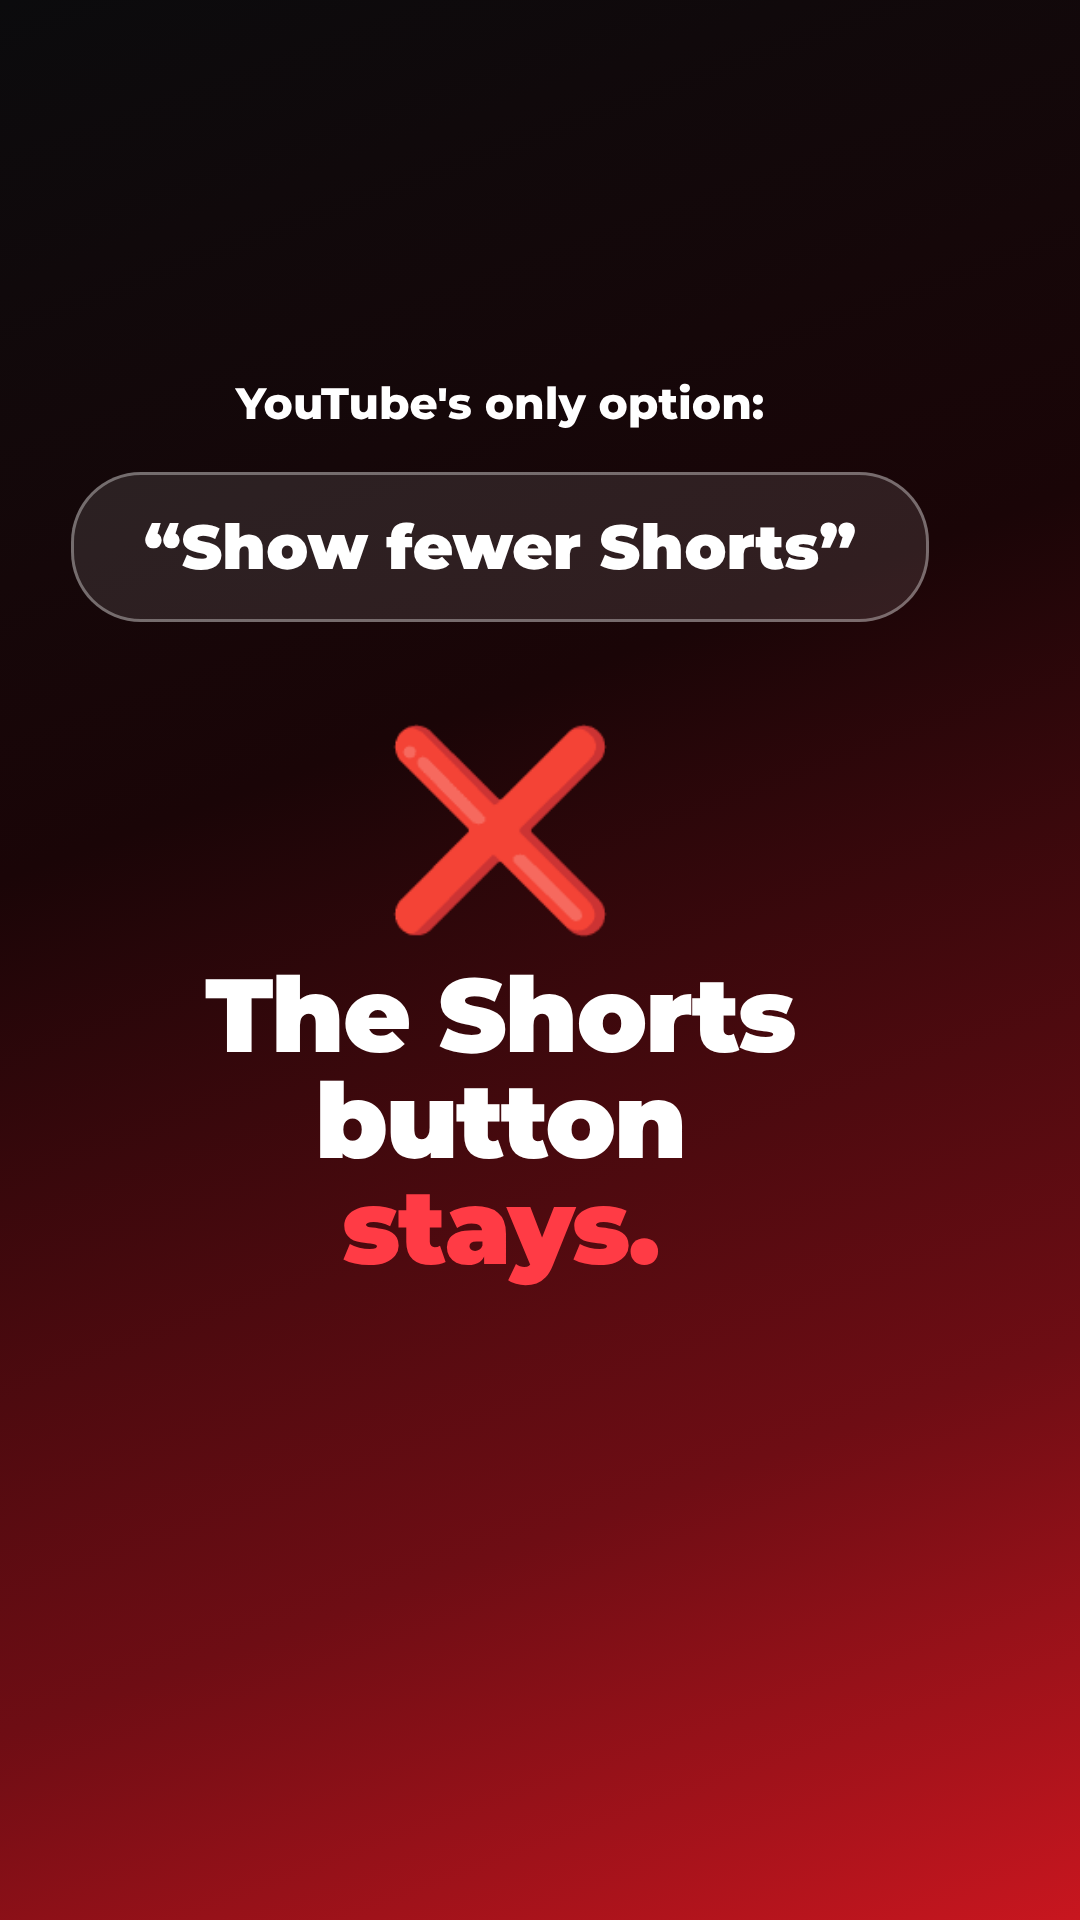
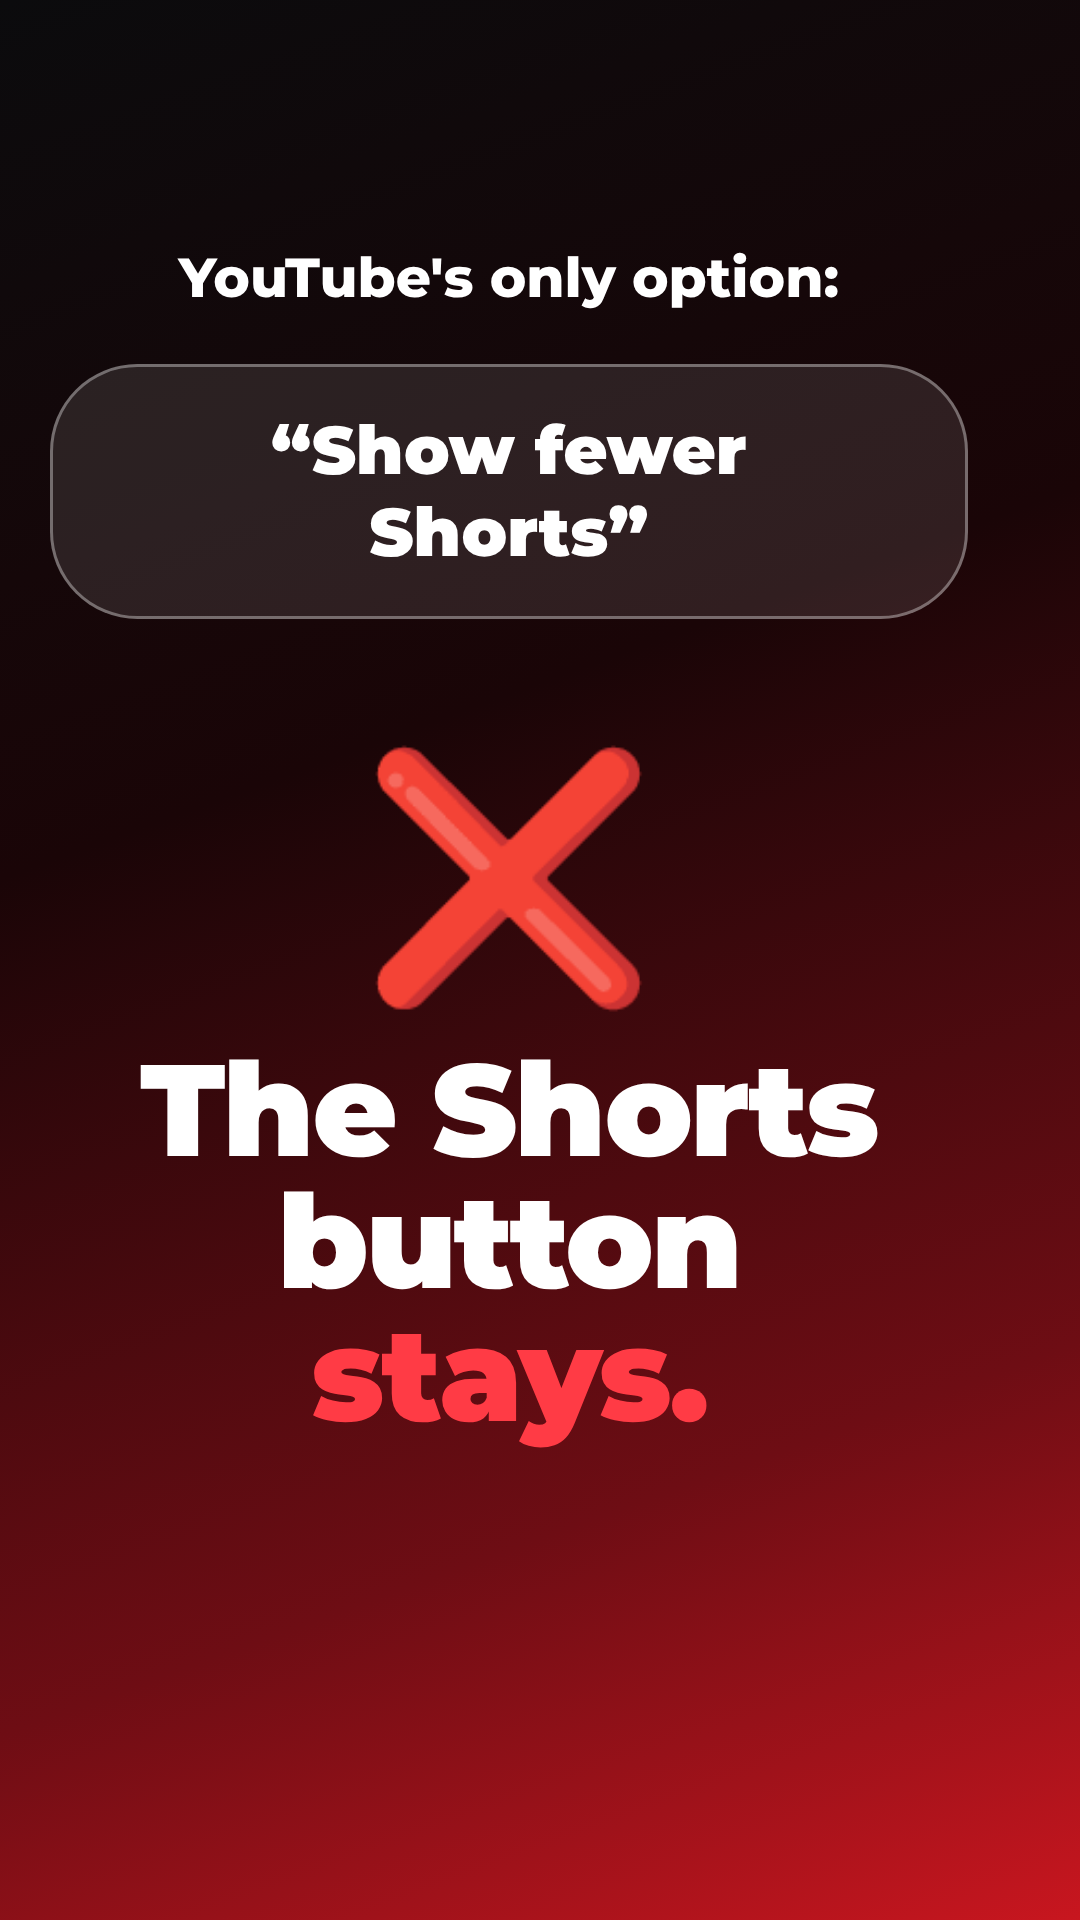
Marketing carousel: bigger content in the TikTok full-screen format
Claude-Session: https://claude.ai/code/session_01YU23RwEqoDKe6tHmapC4V3

Changed region(s): [[0.1222, 0.375, 0.825, 0.7812], [0.0306, 0.1875, 0.9167, 0.3438], [0.1528, 0.125, 0.7944, 0.1562]]

diff --git a/marketing/carousel-android/slides.html b/marketing/carousel-android/slides.html
@@ -5,7 +5,7 @@
 @font-face{font-family:M;font-weight:900;src:url(file://FONTS/montserrat-latin-900-normal.woff2)}
 *{box-sizing:border-box;margin:0;padding:0}
 body{background:#000;font-family:M,sans-serif;color:#fff}
-.s{width:1080px;height:1920px;position:relative;overflow:hidden;display:flex;flex-direction:column;align-items:center;padding:200px 150px 430px 70px;
+.s{zoom:1.25;width:864px;height:1536px;position:relative;overflow:hidden;display:flex;flex-direction:column;align-items:center;padding:150px 90px 330px 40px;
  background:linear-gradient(160deg,#0B0B0D 0%,#1a0507 38%,#6e0d14 75%,#C8161F 100%)}
 .pill{font-weight:800;font-size:34px;letter-spacing:4px;padding:14px 30px;border-radius:40px;background:rgba(255,255,255,.12);border:2px solid rgba(255,255,255,.25)}
 h1{font-weight:900;font-size:110px;line-height:1.02;text-align:center;letter-spacing:-2px}
@@ -19,11 +19,11 @@ h2{font-weight:900;font-size:86px;line-height:1.05;text-align:center;letter-spac
 .x{flex:none;width:58px;height:58px;border-radius:50%;background:#2b2b2f;display:flex;align-items:center;justify-content:center;font-size:34px;font-weight:900;color:#ff5a62}
 .ok{flex:none;width:58px;height:58px;border-radius:50%;background:#fff;display:flex;align-items:center;justify-content:center;font-size:34px;font-weight:900;color:#C8161F}
 .num{flex:none;width:96px;height:96px;border-radius:50%;background:#fff;color:#C8161F;font-weight:900;font-size:46px;display:flex;align-items:center;justify-content:center}
-.swipe{position:absolute;bottom:440px;font-weight:800;font-size:36px;color:rgba(255,255,255,.75)}
+.swipe{position:absolute;bottom:340px;font-weight:800;font-size:36px;color:rgba(255,255,255,.75)}
 .tag{position:absolute;font-weight:900;font-size:36px;padding:12px 28px;border-radius:30px}
 .logo{border-radius:27%;background:#E5172B;display:block}
 .btn{background:#fff;color:#C8161F;font-weight:900;font-size:58px;border-radius:70px;padding:34px 70px;text-align:center}
-.foot{position:absolute;bottom:440px;font-weight:700;font-size:28px;color:rgba(255,255,255,.55)}
+.foot{position:absolute;bottom:340px;font-weight:700;font-size:28px;color:rgba(255,255,255,.55)}
 </style></head><body>
 <!-- 1 -->
 <section class="s" id="s1">
@@ -32,7 +32,7 @@ h2{font-weight:900;font-size:86px;line-height:1.05;text-align:center;letter-spac
  <div style="height:60px"></div>
  <div class="pill">ANDROID</div>
  <div style="height:50px"></div>
- <h1 style="font-size:92px">How to get rid of<br><span class="red">YouTube Shorts</span><br>on Android</h1>
+ <h1 style="font-size:76px">How to get rid of<br><span class="red">YouTube Shorts</span><br>on Android</h1>
  <div style="height:50px"></div>
  <div class="sub">The setting YouTube<br>doesn't give you.</div>
  <div style="flex:1.3"></div>
@@ -43,7 +43,7 @@ h2{font-weight:900;font-size:86px;line-height:1.05;text-align:center;letter-spac
  <div style="flex:1"></div>
  <div class="sub" style="font-size:44px;color:#fff;font-weight:800">YouTube's only option:</div>
  <div style="height:40px"></div>
- <div class="btn" style="font-size:62px;background:rgba(255,255,255,.1);color:#fff;border:3px solid rgba(255,255,255,.35)">“Show fewer Shorts”</div>
+ <div class="btn" style="font-size:54px;background:rgba(255,255,255,.1);color:#fff;border:3px solid rgba(255,255,255,.35)">“Show fewer Shorts”</div>
  <div style="height:110px"></div>
  <div style="font-size:190px;line-height:1">❌</div>
  <div style="height:40px"></div>
@@ -51,21 +51,21 @@ h2{font-weight:900;font-size:86px;line-height:1.05;text-align:center;letter-spac
  <div style="flex:1.2"></div>
 </section>
 <!-- 3 -->
-<section class="s" id="s3">
- <h1 style="font-size:88px">Before <span class="red">→</span> After</h1>
+<section class="s" id="s3" style="padding-top:120px">
+ <h1 style="font-size:76px">Before <span class="red">→</span> After</h1>
  <div style="height:50px"></div>
- <div style="position:relative;width:860px">
+ <div style="position:relative;width:734px">
   <div class="tag" style="position:absolute;left:-10px;top:-34px;z-index:3;background:#2b2b2f;color:#fff;font-size:34px;transform:rotate(-3deg)">😵💫 BEFORE</div>
-  <div class="phone" style="width:860px;border-radius:40px;border:8px solid #3a3a3f;filter:saturate(.9)"><img src="b_crop.png">
-   <div style="position:absolute;left:235px;top:342px;width:120px;height:120px;border:7px solid #ff3b45;border-radius:50%;box-shadow:0 0 30px #ff3b45"></div>
+  <div class="phone" style="width:734px;border-radius:40px;border:8px solid #3a3a3f;filter:saturate(.9)"><img src="b_crop.png">
+   <div style="position:absolute;left:197px;top:235px;width:108px;height:108px;border:7px solid #ff3b45;border-radius:50%;box-shadow:0 0 30px #ff3b45"></div>
   </div>
-  <div class="tag" style="position:absolute;right:-6px;top:200px;z-index:3;background:#ff3b45;color:#fff;font-size:32px;transform:rotate(4deg)">Shorts. One tap away.</div>
+  <div class="tag" style="position:absolute;right:-6px;top:70px;z-index:3;background:#ff3b45;color:#fff;font-size:32px;transform:rotate(4deg)">Shorts. One tap away.</div>
  </div>
  <div style="font-size:90px;line-height:1;margin:22px 0 18px">⬇</div>
- <div style="position:relative;width:860px">
+ <div style="position:relative;width:734px">
   <div class="tag" style="position:absolute;left:-10px;top:-34px;z-index:3;background:#fff;color:#C8161F;font-size:34px;transform:rotate(-3deg)">😌 AFTER</div>
-  <div class="phone" style="width:860px;border-radius:40px;border:8px solid #fff;box-shadow:0 0 70px rgba(255,255,255,.35)"><img src="a_crop.png"></div>
-  <div class="tag" style="position:absolute;right:-6px;top:200px;z-index:3;background:#fff;color:#C8161F;font-size:32px;transform:rotate(4deg)">✓ Shorts button gone</div>
+  <div class="phone" style="width:734px;border-radius:40px;border:8px solid #fff;box-shadow:0 0 70px rgba(255,255,255,.35)"><img src="a_crop.png"></div>
+  <div class="tag" style="position:absolute;right:-6px;top:70px;z-index:3;background:#fff;color:#C8161F;font-size:32px;transform:rotate(4deg)">✓ Shorts button gone</div>
  </div>
  <div style="flex:1"></div>
 </section>
@@ -77,9 +77,9 @@ h2{font-weight:900;font-size:86px;line-height:1.05;text-align:center;letter-spac
  <h2>Three steps.<br>That's it.</h2>
  <div style="height:80px"></div>
  <div class="card" style="font-size:0">
-  <div class="row" style="margin:26px 0;font-size:44px"><div class="num">1</div>Install F*ck Shorts</div>
-  <div class="row" style="margin:26px 0;font-size:44px"><div class="num">2</div>Turn it on with one switch</div>
-  <div class="row" style="margin:26px 0;font-size:44px"><div class="num">3</div>Open YouTube like always</div>
+  <div class="row" style="margin:26px 0;font-size:40px;white-space:nowrap"><div class="num">1</div>Install F*ck Shorts</div>
+  <div class="row" style="margin:26px 0;font-size:40px;white-space:nowrap"><div class="num">2</div>Turn it on with one switch</div>
+  <div class="row" style="margin:26px 0;font-size:40px;white-space:nowrap"><div class="num">3</div>Open YouTube like always</div>
  </div>
  <div style="height:70px"></div>
  <div class="sub">Works in the real YouTube app.<br>No YouTube login needed.</div>
@@ -90,13 +90,13 @@ h2{font-weight:900;font-size:86px;line-height:1.05;text-align:center;letter-spac
  <div style="flex:1"></div>
  <svg class="logo" width="220" height="220" viewBox="0 0 100 100"><rect x="29" y="20" width="42" height="60" rx="9" fill="#fff"/><line x1="27" y1="80" x2="75" y2="22" stroke="#E5172B" stroke-width="15" stroke-linecap="round"/><line x1="27" y1="80" x2="75" y2="22" stroke="#fff" stroke-width="6.5" stroke-linecap="round"/></svg>
  <div style="height:44px"></div>
- <h1 style="font-size:116px">F*ck Shorts</h1>
+ <h1 style="font-size:100px">F*ck Shorts</h1>
  <div style="height:24px"></div>
  <div class="sub">Coming soon to Google Play.</div>
  <div style="height:90px"></div>
  <div class="sub" style="color:#fff;font-weight:800">Want to try it<br>before everyone else?</div>
  <div style="height:40px"></div>
- <div class="btn">Comment “TEST” 👇</div>
+ <div class="btn" style="white-space:nowrap;font-size:50px;padding:30px 54px">Comment “TEST” 👇</div>
  <div style="flex:1"></div>
  <div class="foot">Follow so you don't miss the release</div>
 </section>
